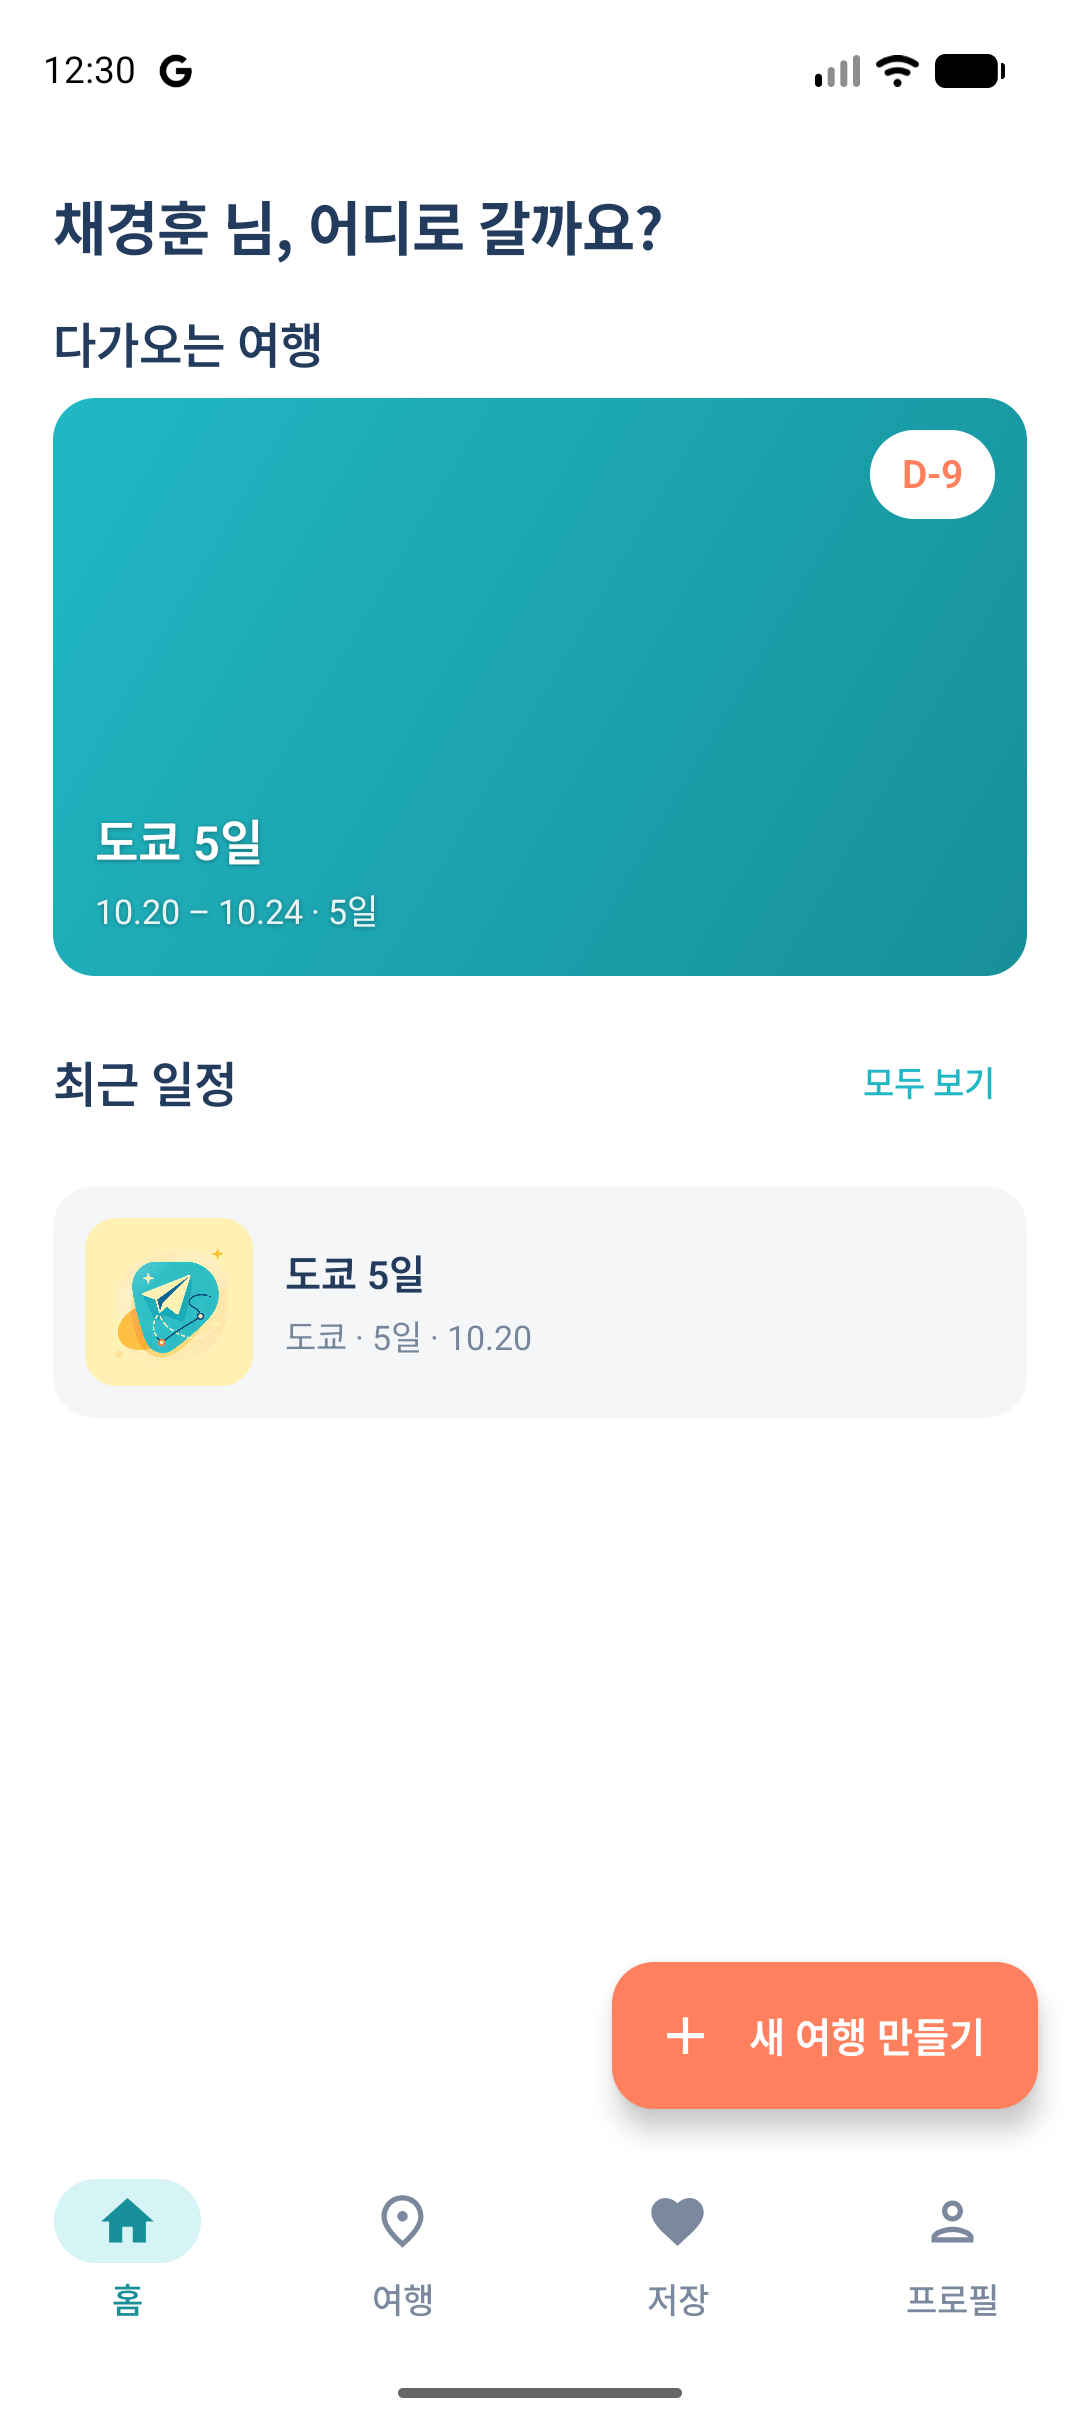
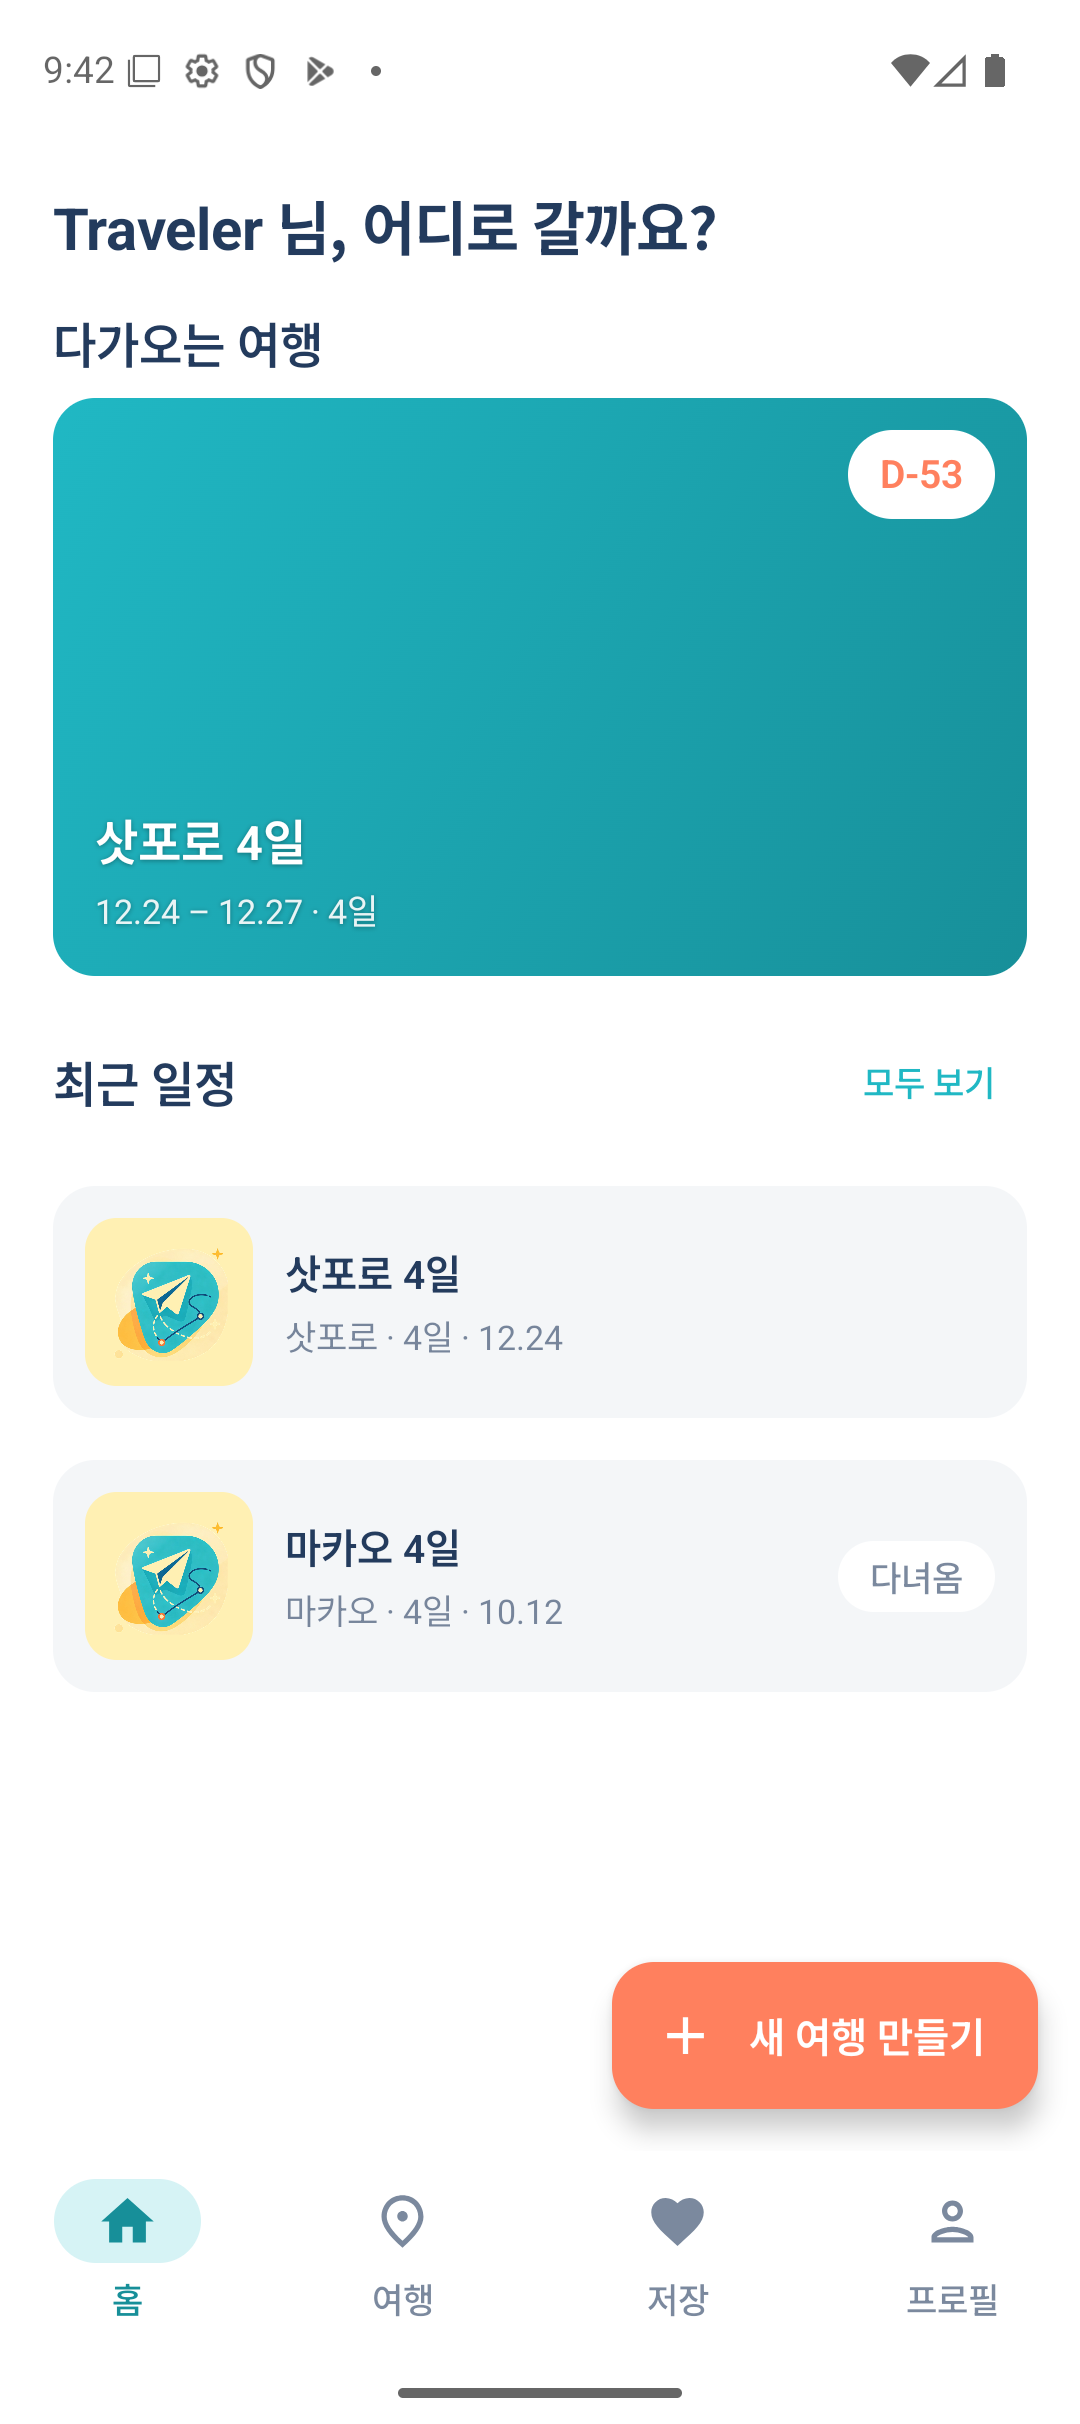
docs: README용 스크린샷 — 일정 검토 카드, 날씨 칩, 지도 경로선, 말로 고치기
날씨는 디버그 날짜 이동(53일)으로 실제 11/1~4 예보를 옮겨 붙여 찍었다.

diff --git a/docs/screenshots/README.md b/docs/screenshots/README.md
@@ -12,6 +12,10 @@
 | `settings.png` | 설정 — 계정·언어·알림·접근성 |
 | `plan-summary.png` | 결과 화면 요약 탭 |
 | `plan-timeline-photos.png` | 일정표 — 설정에서 "장소 사진 표시"를 켠 상태 |
+| `plan-review.png` | 요약 탭 — 일정 검토 카드를 펼친 상태(비 오는 날 실외 관광지) |
+| `timeline-weather.png` | 일정표 — 날짜 칩 날씨 아이콘과 갱신 시각·출처 줄 |
+| `map.png` | 지도 탭 — 숙소 → 일정표 순서 → 숙소 경로선 |
+| `text-edit.png` | 말로 일정 고치기 — "점심 라멘 말고"로 점심이 수프카레로 바뀐 직후 |
 | `en-input.png` | 영어 — 입력 화면 (금액이 달러로 환산된다) |
 | `en-plan-summary.png` | 영어 — 결과 화면 요약 탭 |
 | `en-trips.png` | 영어 — 여행 탭 |
